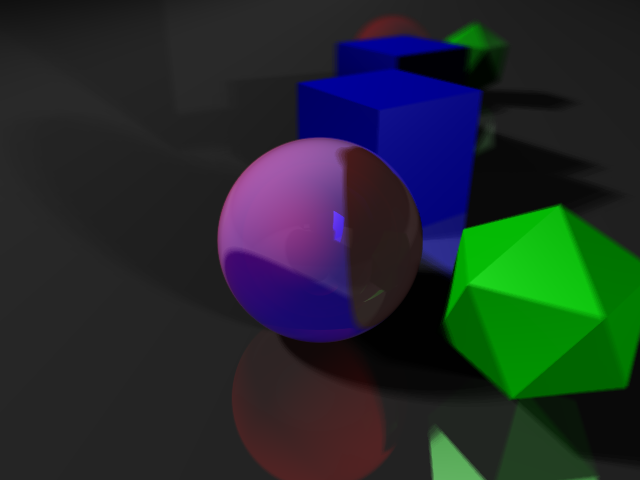
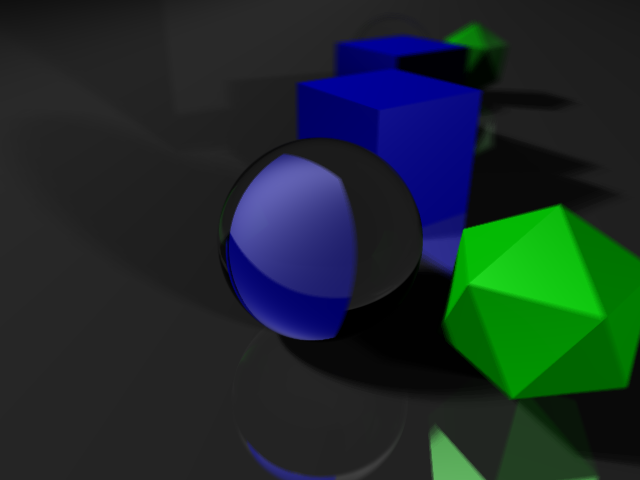
should be finished

diff --git a/comp557F18/comp557/a4/Scene.java b/comp557F18/comp557/a4/Scene.java
@@ -341,7 +341,7 @@ public class Scene {
 	
 	public Color4f mirrorReflection(Light light, List<Intersectable> surfaceList, IntersectResult ir, Ray ray) {
 		Color4f ans = new Color4f();
-		if(ir.material.numOfReflect>5) {
+		if(ir.material.numOfReflect>3) {
 			ans.x = ir.material.diffuse.x;
 			ans.y = ir.material.diffuse.y;
 			ans.z = ir.material.diffuse.z;
@@ -409,6 +409,7 @@ public class Scene {
 		double r = n1/n2;
 		double k = 1-r*r*(1-cos1*cos1);
 		if(k<=0) {
+			System.out.println("was here");
 			ans = mirrorReflection(light, surfaceList, ir, ray);
 		}
 		else {
@@ -420,10 +421,10 @@ public class Scene {
 			double newAngle = Math.acos(cos2);
 			double FR = fresnelEquation(n1, n2, angle, newAngle);
 			double FT = 1-FR;
-//			Color4f ans1 = mirrorReflection(light, surfaceList, ir, ray);
-//			ans.x += (float) (ans1.x*ir.material.specular.x*FR);
-//			ans.y += (float) (ans1.y*ir.material.specular.y*FR);
-//			ans.z += (float) (ans1.z*ir.material.specular.z*FR);
+			Color4f ans1 = mirrorReflection(light, surfaceList, ir, ray);
+			ans.x += (float) (ans1.x*ir.material.specular.x*FR);
+			ans.y += (float) (ans1.y*ir.material.specular.y*FR);
+			ans.z += (float) (ans1.z*ir.material.specular.z*FR);
 			Ray refractRay = new Ray(finalP, T, n2);
 			IntersectResult firT = new IntersectResult();
 			for(Intersectable intersectable : surfaceList) {
@@ -444,9 +445,9 @@ public class Scene {
 				//Ray newRay = 
 				Color4f tmpans = computeShading(light, lightRay, refractRay, firT);
 				//ans = fir.material.diffuse;
-				ans.x += (float) (tmpans.x*ir.material.specular.x);
-				ans.y += (float) (tmpans.y*ir.material.specular.y);
-				ans.z += (float) (tmpans.z*ir.material.specular.z);
+				ans.x += (float) (tmpans.x*ir.material.specular.x*FT);
+				ans.y += (float) (tmpans.y*ir.material.specular.y*FT);
+				ans.z += (float) (tmpans.z*ir.material.specular.z*FT);
 			}
 		}
 		return ans;
